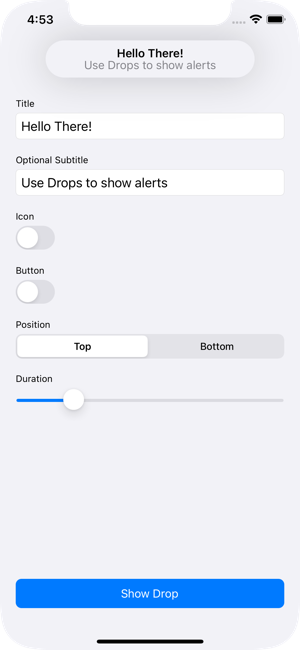
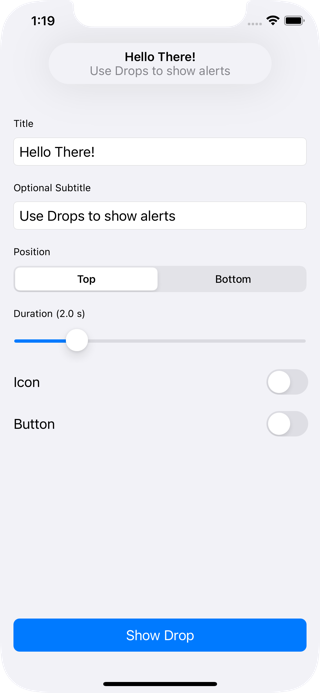
feat: add voice over announcement (#7)

diff --git a/Sources/Presenter.swift b/Sources/Presenter.swift
@@ -38,7 +38,10 @@ final class Presenter: NSObject {
 
     func show(completion: @escaping AnimationCompletion) {
         install()
-        animator.show(context: context) { (completed) in
+        animator.show(context: context) { [weak self] completed in
+            if let drop = self?.drop {
+                self?.announcementAccessibilityMessage(for: drop)
+            }
             completion(completed)
         }
     }
@@ -81,5 +84,12 @@ final class Presenter: NSObject {
         ])
 
         containerView.layoutIfNeeded()
+    }
+
+    func announcementAccessibilityMessage(for drop: Drop) {
+        let message = [drop.title, drop.subtitle]
+            .compactMap { $0 }
+            .joined(separator: "\n")
+        UIAccessibility.post(notification: UIAccessibility.Notification.announcement, argument: message)
     }
 }

diff --git a/SwiftUIExample/ContentView.swift b/SwiftUIExample/ContentView.swift
@@ -26,7 +26,7 @@ import Drops
 
 struct ContentView: View {
 
-    @State var title: String = "Title"
+    @State var title: String = "Hello There!"
     @State var subtitle: String = "Use Drops to show alerts"
     @State var positionIndex: Int = 0
     @State var duration: Float = 2.0
@@ -75,7 +75,7 @@ struct ContentView: View {
                 Button(action: {
                     showDrop()
                 }, label: {
-                    Text("Show Drop").foregroundColor(.white).padding()
+                    Text("Show Drop").foregroundColor(.white).padding(10)
                 })
                 .frame(maxWidth: .infinity)
                 .background(Color.blue)

diff --git a/README.md b/README.md
@@ -6,23 +6,20 @@ A µFramework for showing alerts like the one used when copying from pasteboard 
 
 ---
 
-![CI](https://github.com/omaralbeik/Drops/workflows/Drops/badge.svg)
+[![CI](https://github.com/omaralbeik/Drops/workflows/Drops/badge.svg)](https://github.com/omaralbeik/Drops/actions)
 [![codecov](https://codecov.io/gh/omaralbeik/Drops/branch/main/graph/badge.svg?token=399UQIKSLR)](https://codecov.io/gh/omaralbeik/Drops)
 [![SPM compatible](https://img.shields.io/badge/SPM-Compatible-brightgreen.svg?style=flat)](https://swift.org/package-manager/)
 
-## Features / Todos
+## Features
 
-- [x] iOS 11+
-- [x] UIKit/SwiftUI support
-- [x] Light/dark mode
-- [x] Show with custom duration
-- [x] Show from top or buttom of screen
-- [x] Interactive dismissal
-- [x] Queue multiple drops
-- [x] Add basic CI with Github Actions
-- [ ] VoiceOver support
-- [ ] Accessibility checkup
-- [ ] Add more tests
+- iOS 11+
+- Can be used in SwiftUI and UIKit applications
+- Light/Dark modes
+- Interactive dismissal
+- Queue to show consecutive drops
+- Support dynamic font sizing
+- Support announcing title and subtitle via VoiceOver
+- Show from top or buttom of screen
 
 ---
 
@@ -63,7 +60,7 @@ The [Swift Package Manager](https://swift.org/package-manager/) is a tool for ma
 
 ```swift
 dependencies: [
-    .package(url: "https://github.com/omaralbeik/Drops.git", from: "0.5.0")
+    .package(url: "https://github.com/omaralbeik/Drops.git", from: "0.6.0")
 ]
 ```
 
